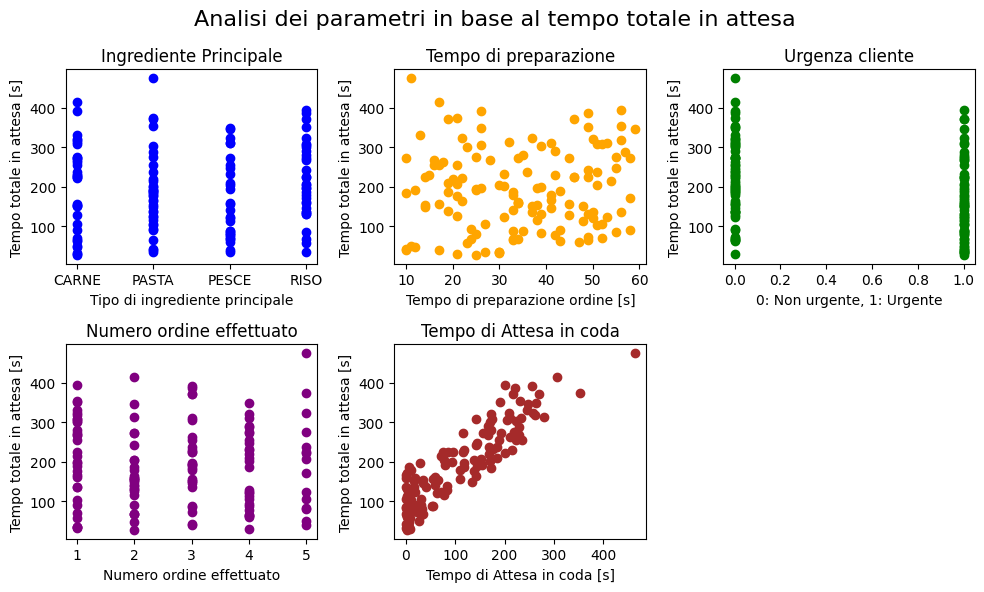
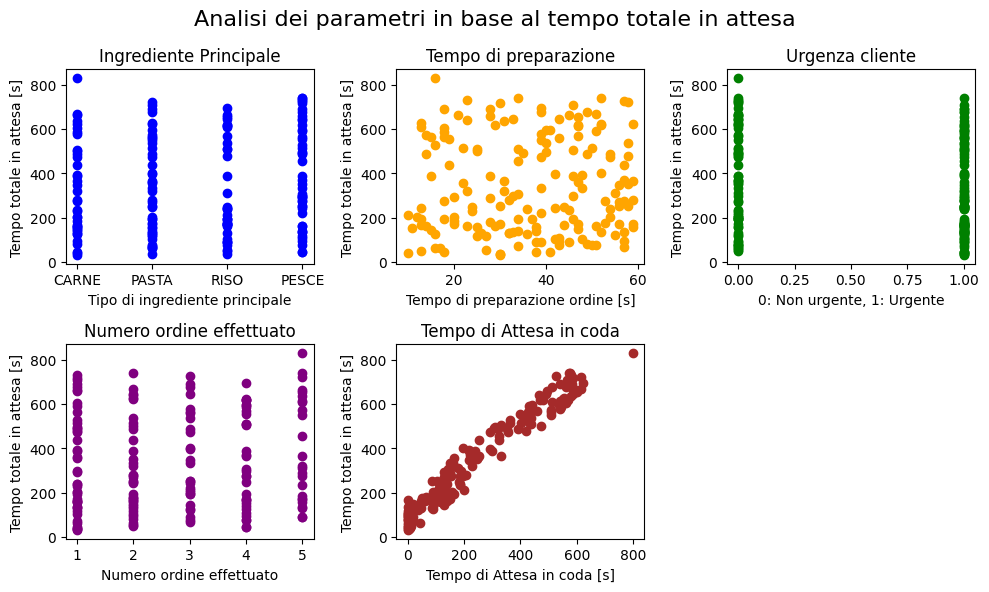
sistemato problema consumer
sistemato il problema del consumer che non aggiungeva in cucina gli ordini perchè la vedeva piena, dovuto ad un uso scorrettp dei semafori

diff --git a/src/main/java/org/example/buffer/Buffer.java b/src/main/java/org/example/buffer/Buffer.java
@@ -58,7 +58,7 @@ public class Buffer implements ProducerIF, ConsumerIF, CheckerIF {
         //        false);
 
 
-        //System.out.println("***** Producer controlla il buffer *****");
+        System.out.println("***** Producer controlla il buffer *****");
         int id = dizionario.aggiungiOrdine(ordinePQ);
         indexMinPQ.insert(id, ordinePQ.getValorePriorita());
 
@@ -68,14 +68,14 @@ public class Buffer implements ProducerIF, ConsumerIF, CheckerIF {
         //        ordinePQ.getId(),
         //        true);
 
-        //Printer.stampa("Buffer: inserimento " + ordinePQ,indexMinPQ);
+        Printer.stampa("Buffer: inserimento " + ordinePQ,indexMinPQ);
 
-        //if(dizionario.getSize() == BUFFER_SIZE)
-        //{
-        //    Printer.stampa("pieno!",indexMinPQ);
-        //}
+        if(dizionario.getSize() == BUFFER_SIZE)
+        {
+            Printer.stampa("pieno!",indexMinPQ);
+        }
 
-        //System.out.println("***** Producer rilascia il buffer *****");
+        System.out.println("***** Producer rilascia il buffer *****");
         BUSY.release();  // Rilascio del semaforo BUSY (fine dell'accesso esclusivo)
         FULL.release();  // Rilascio del semaforo FULL per segnalare che il buffer contiene un elemento in più
     }

diff --git a/src/main/java/org/example/entities/GestioneCode.java b/src/main/java/org/example/entities/GestioneCode.java
@@ -90,10 +90,16 @@ public class GestioneCode {
     public boolean push(OrdinePQ ordinePQ) throws RuntimeException, InterruptedException {
 
         boolean res;
+
         boolean acquired = EMPTY.tryAcquire();  // Acquisizione del semaforo EMPTY (si blocca se il buffer è pieno)
         if(acquired) {
             CodaPostazione coda_selezionata = postazioni.get(ordinePQ.getIngredientePrincipale().toString());
             res = coda_selezionata.insert(ordinePQ);
+            if(!res){
+                EMPTY.release();
+                System.out.println("Postazione " + ordinePQ.getIngredientePrincipale().toString() + " piena! : " + this);
+                return false;
+            }
             System.out.println("GestioneCode: Postazione Aggiornata: " + postazioni.get(ordinePQ.getIngredientePrincipale().toString()));
             System.out.println("GestioneCode: stampa di tutte le code: " + this);
             FULL.release();  // Rilascio del semaforo FULL per segnalare che il buffer contiene un elemento in più

diff --git a/src/main/java/org/example/threads/Cliente.java b/src/main/java/org/example/threads/Cliente.java
@@ -44,7 +44,7 @@ public class Cliente implements Runnable{
                     true);
             // Aspetta un periodo randomico e ricomincia
             try {
-                Thread.sleep(random.nextInt(10000,40000));
+                Thread.sleep(random.nextInt(10000,60000));
             } catch (InterruptedException e) {
                 throw new RuntimeException(e);
             }

diff --git a/src/main/java/org/example/threads/Producer.java b/src/main/java/org/example/threads/Producer.java
@@ -29,6 +29,7 @@ public class Producer implements Runnable{
     public void addToQueue(OrdinePQ value) {
         synchronized (lock) {
             queue.offer(value); // Add to the queue
+            System.out.print("producer queue: " + queue.toString());
         }
     }
 

diff --git a/src/main/java/org/example/entities/CodaPostazione.java b/src/main/java/org/example/entities/CodaPostazione.java
@@ -99,4 +99,5 @@ public class CodaPostazione {
                 ", queue=" + queue +
                 '}';
     }
+
 }
